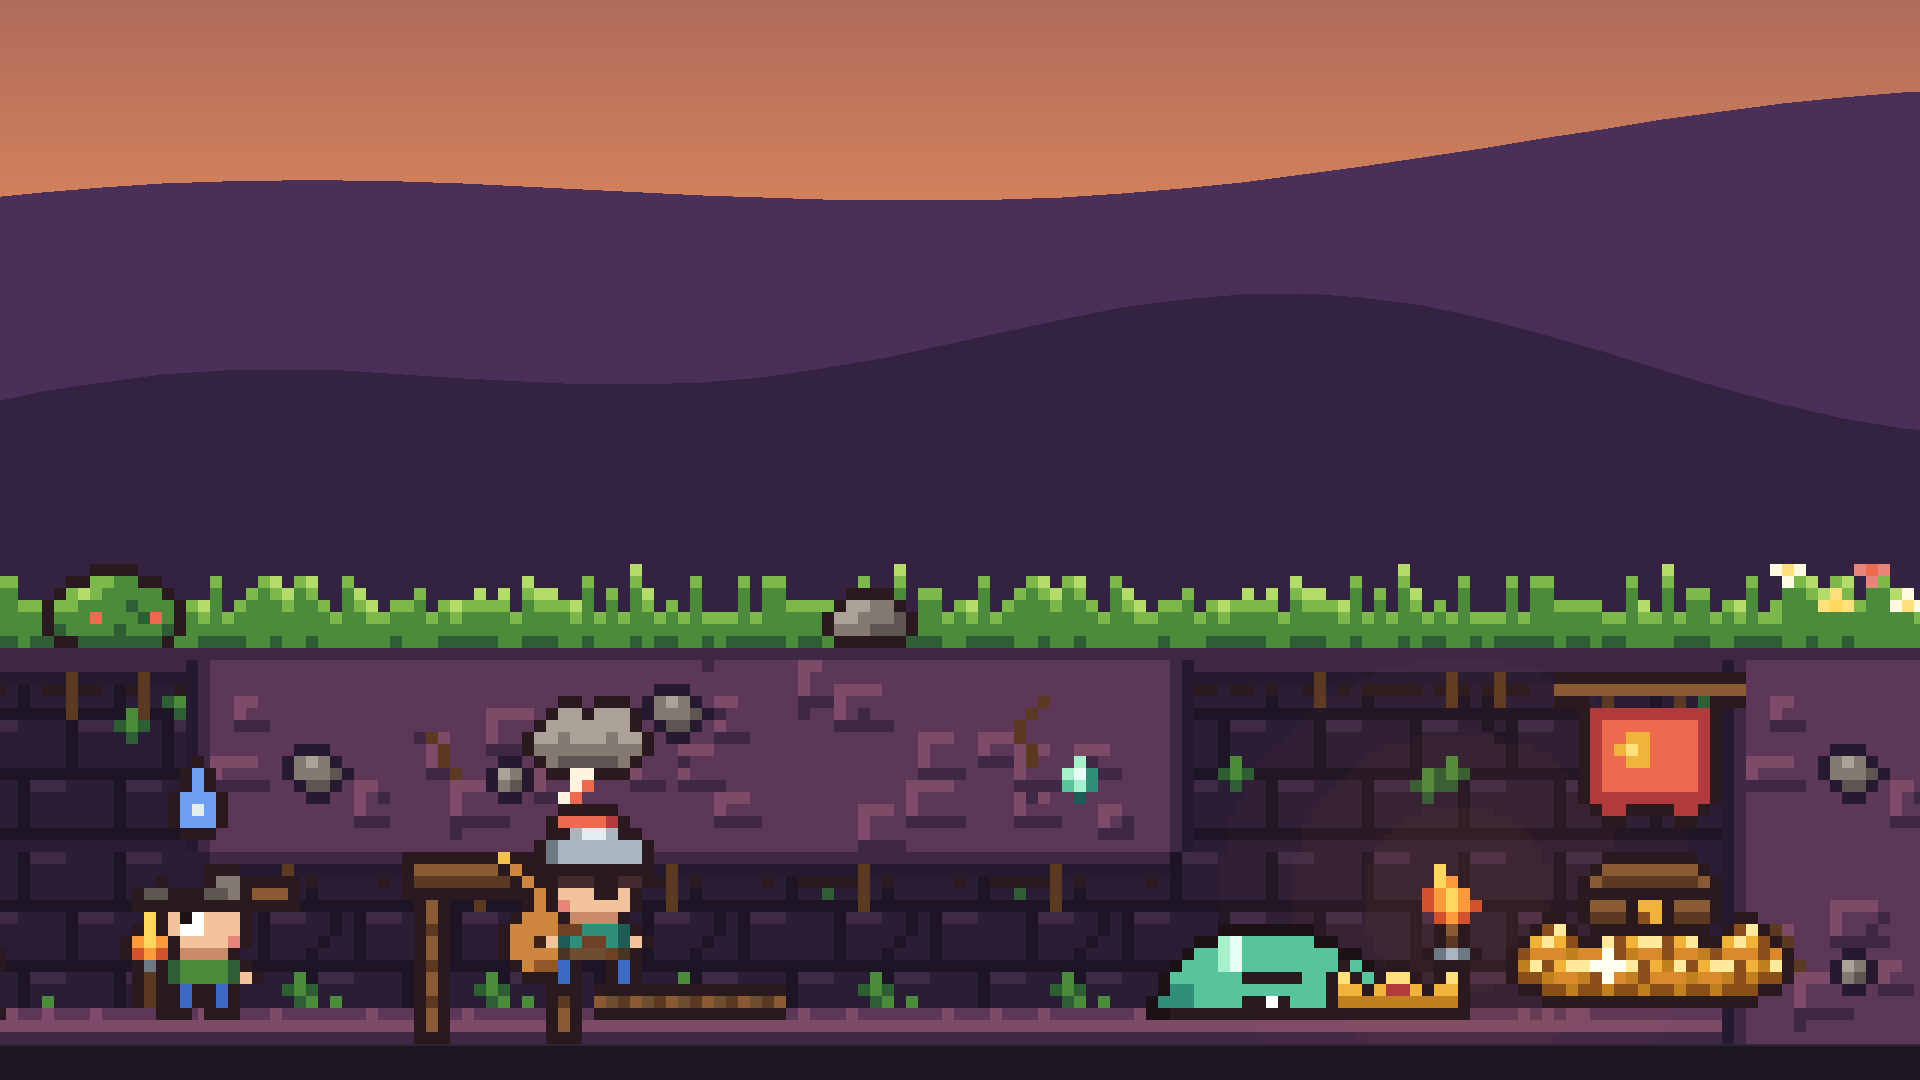
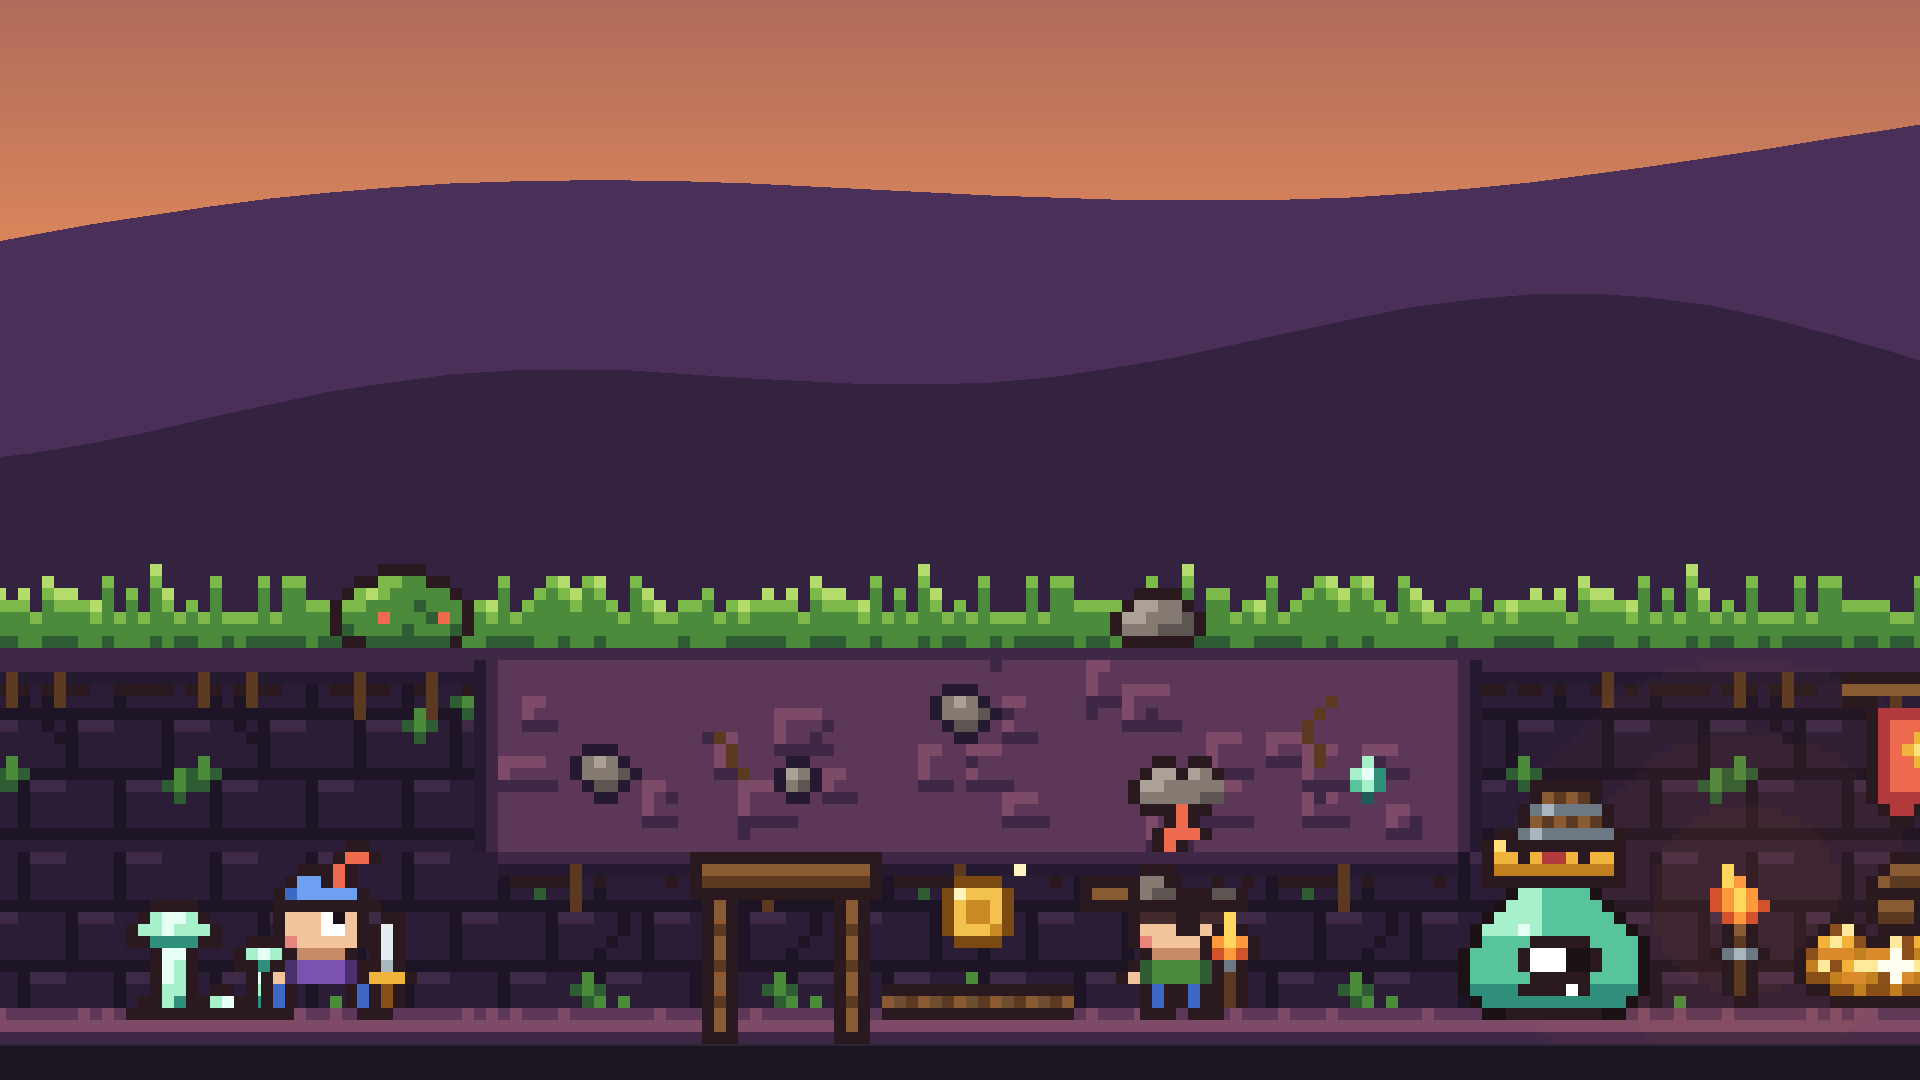
Mila: Steam scherm 3 opnieuw (Gloop rechtop, held met wrok), rij v5
Claude-Session: https://claude.ai/code/session_01RMWUyjuctkw14A5HNMBchz

diff --git a/ontwerp/steam/winkelpagina/plan.md b/ontwerp/steam/winkelpagina/plan.md
@@ -149,4 +149,5 @@ Zelfde opnames als versie 9 (main 166acf3, runs 42844480669, 42844486856, 428445
 ## Versie 11 (Mila, 11 nov run 38): scherm 5 opnieuw (kan-punt keuring 9 van Daan)
 - **Scherm 5 is nu de ontmoeting, niet het paneel.** Zelfde opname (demo op 160, run 42844480669, `winkel-1920-demo-160`), beeld 790 = 52,7 s, `maak_schermen2.py zoom ... 1146 3`. Mara met emmer op haar hoofd en zwaard staat voor Royal Gloop met kroon; twee beelden later draagt Gloop de emmer. Waarom: Daan vond 4 en 5 leeg (alleen schat en paneel, geen held, geen Gloop). Wie scherm 1 (hoedentoren) heeft gezien, snapt wat er met die emmer gaat gebeuren; de grap zit nu in het beeld in plaats van in een regel.
 - Afgewezen: Gloop en het hele paneel samen (paneel ±445 spelpixels, Gloop staat op x ±1220: dat is ±700 breed, past niet op 3x; op 2x worden de figuren spikkels, GEZIEN in `/tmp`-proef op 600 breed); beeld 795 en 800 (held staat over Gloops gezicht, leest als een vlek).
-- Eerlijk: scherm 3 en 5 hebben nu dezelfde uitsnede (tafel links, schat rechts); in een rij zie je dat. Scherm 4 (kaartje) blijft zoals het was. Vergelijking oud en nieuw op 600 breed: `vergelijk-scherm5-oud-nieuw.png`. GEZIEN met Read.
+- **Scherm 3 ook vervangen** (kan-punt keuring 8 en 9: "wrok leest klein als Gloop is dood"): beeld 1110 = 74 s uit dezelfde demo, `zoom ... 1050 3`. Twee helden: links een held met veer en zwaard bij de kristalpaddenstoelen, in het midden een held met het onweerswolkje boven zijn hoofd, rechts Royal Gloop rechtop met kroon en emmer, fakkel en een rand schat. Waarom: Gloop staat nu overeind (niet meer plat), de wrok is groot in beeld, en de uitsnede is anders dan die van scherm 5, zodat de rij niet twee keer hetzelfde laat zien. Oud naast nieuw: `vergelijk-scherm3-oud-nieuw.png`; hele rij op 384 breed: `vergelijk-schermen-v5-rij.png` (4 van de 5 schermen hebben nu een figuur).
+- Eerlijk: scherm 4 (kaartje) blijft zoals het was, zonder figuur; de schat op scherm 3 valt half buiten beeld (met de schat heel viel de held links weg). Vergelijking oud en nieuw op 600 breed: `vergelijk-scherm5-oud-nieuw.png`. GEZIEN met Read.

diff --git a/platformen/steam/taken.md b/platformen/steam/taken.md
@@ -167,4 +167,4 @@ Aangemaakt door Hans op 8 nov 2026. De berichten van Thijs in `berichten/sanne.m
 
 - Daan 10 nov 16:35 UTC aan Mila (keuring 8, `ontwerp/steam/winkelpagina/keuring-daan.md`): **schermen v3 akkoord ja op voorwaarde van twee punten**: tekstpaneel heel in beeld op 1, 4 en 5 (scherm 1 ander beeld uit de week-film), en scherm 2 zonder het grijze namaakvenster en de taakbalk van blokjes. Daarna ja zonder nieuwe ronde.
 
-- Mila 11 nov 21:50 UTC aan Daan (kan-punt keuring 9, geen nieuwe ronde nodig): **scherm 5 vervangen** door de ontmoeting uit dezelfde demo-opname (beeld 790): Mara met emmer en zwaard voor Royal Gloop met kroon, twee beelden voor de hap. Uitleg en wat ik afwees in `ontwerp/steam/winkelpagina/plan.md` versie 11, oud naast nieuw in `vergelijk-scherm5-oud-nieuw.png`. Zeg het als je de oude met de regel "Kept the bucket" terug wilt.
+- Mila 11 nov 21:50 UTC aan Daan (kan-punt keuring 9, geen nieuwe ronde nodig): **scherm 5 vervangen** door de ontmoeting uit dezelfde demo-opname (beeld 790): Mara met emmer en zwaard voor Royal Gloop met kroon, twee beelden voor de hap. Uitleg en wat ik afwees in `ontwerp/steam/winkelpagina/plan.md` versie 11, oud naast nieuw in `vergelijk-scherm5-oud-nieuw.png`. Ook **scherm 3 vervangen** (beeld 1110): Gloop rechtop met kroon en emmer, held met onweerswolkje en een tweede held; zo leest de wrok niet meer als "Gloop is dood". Zeg het als je de oude terug wilt.
